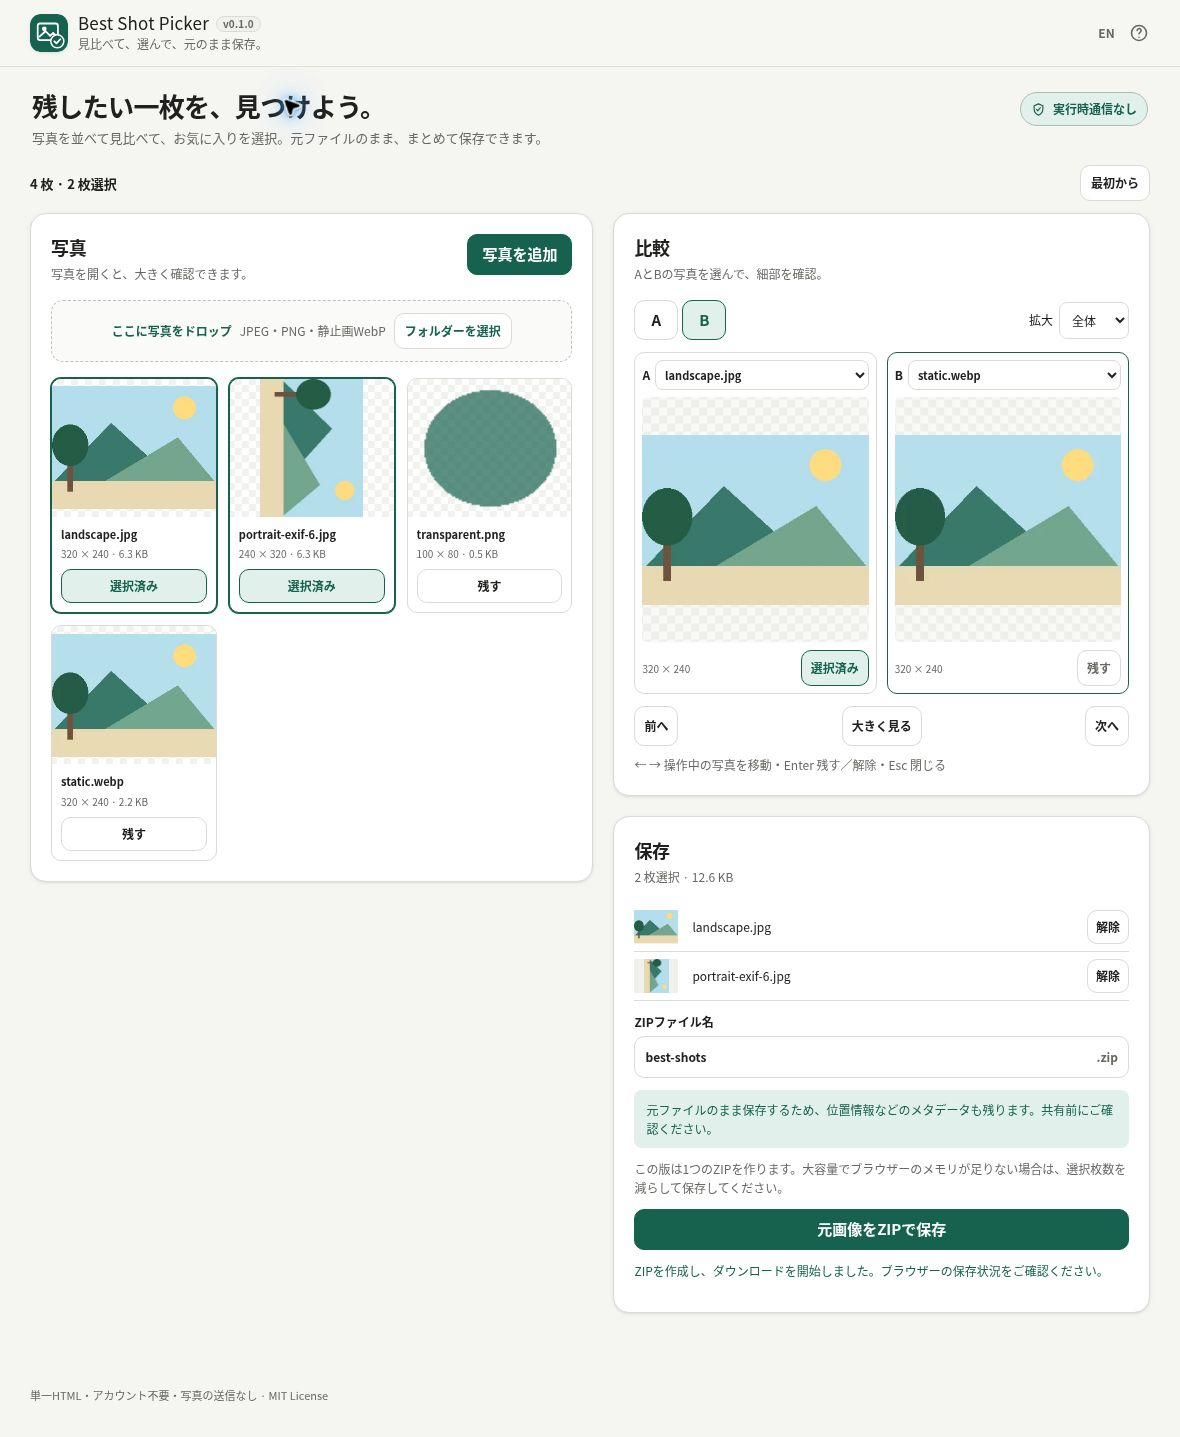
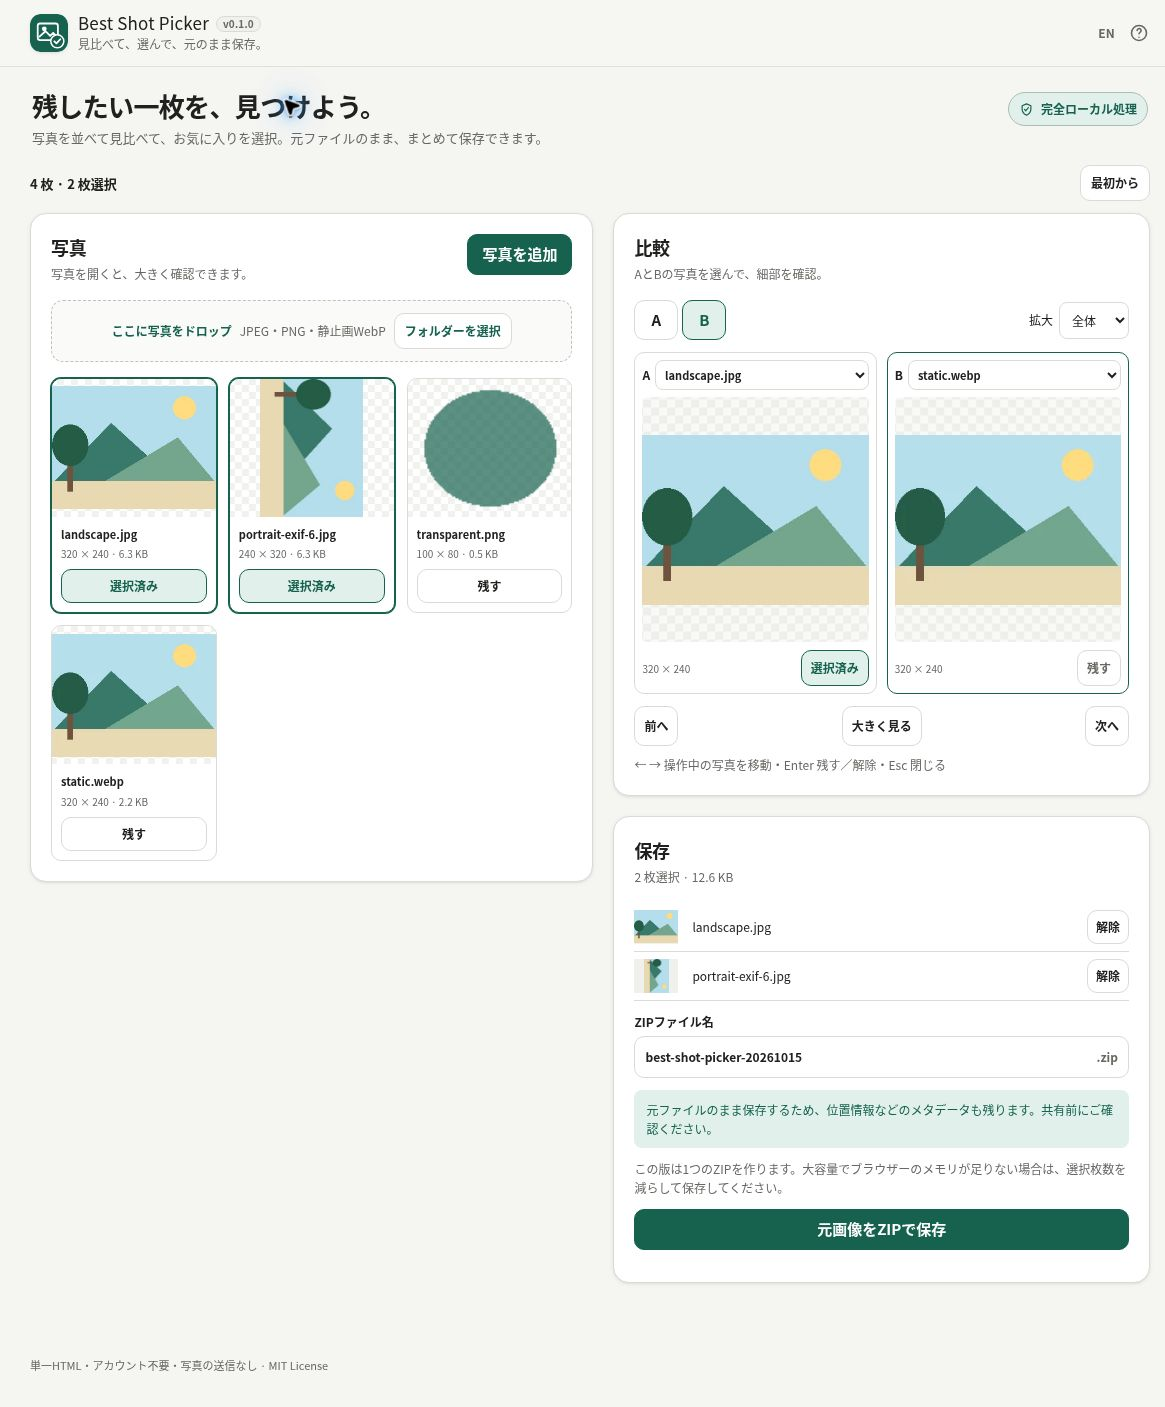
test: verify local-processing label and refreshed screenshots

diff --git a/docs/VALIDATION.md b/docs/VALIDATION.md
@@ -30,3 +30,7 @@ v0.1 requires BSP-001–008, 011–015, 037–042, 046, 051–054. Core tests co
 ## Template alignment regression
 
 The header, Hero, and local-processing badge use the canonical htmlapps-template shell (cb908779). The existing subtitle is unchanged. Browser regression assertions cover desktop shell widths and font sizes, the borderless help control, shield icon, EN / JA labels, and narrow-screen typography/version visibility. Local core tests and canonical syntax/build checks pass. All 52 browser assertions pass in CI at ae69c707. The same-head HTTPS preview was checked with four synthetic images, two kept originals, A/B comparison, a renamed ZIP, and Japanese/English switching. Independent Python extraction confirms both downloaded files match their original bytes and CRC. Refreshed Japanese/English README screenshots were captured from that hosted preview and visually compared with the canonical template; CI also retains desktop screenshots. Narrow-width screenshot capture is included for continued visual regression review.
+
+## Local-processing label and mobile footer
+
+At a10cff89, canonical build and all 52 Chromium checks pass. The badge reads “完全ローカル処理” / “Fully local processing”, including initial HTML fallback. The informational footer is hidden at widths ≤600px, while desktop footer and mobile navigation remain present. Tests cover desktop and 320/360/390px visibility. Updated desktop screenshots were captured from the same-runtime HTTPS preview after loading four synthetic photos and keeping two.
